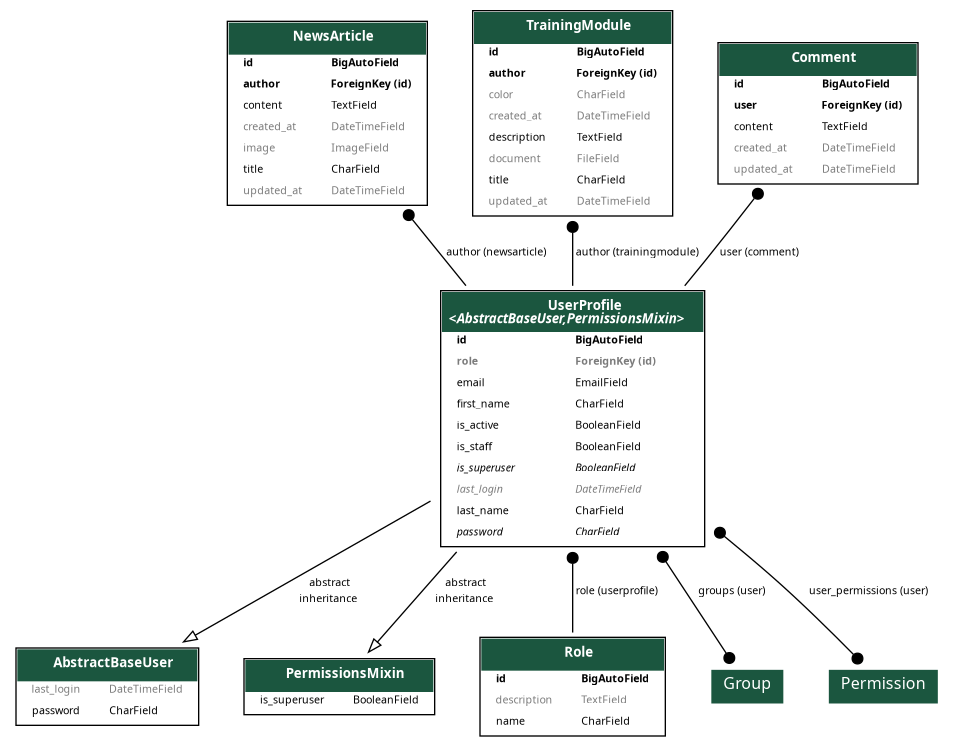
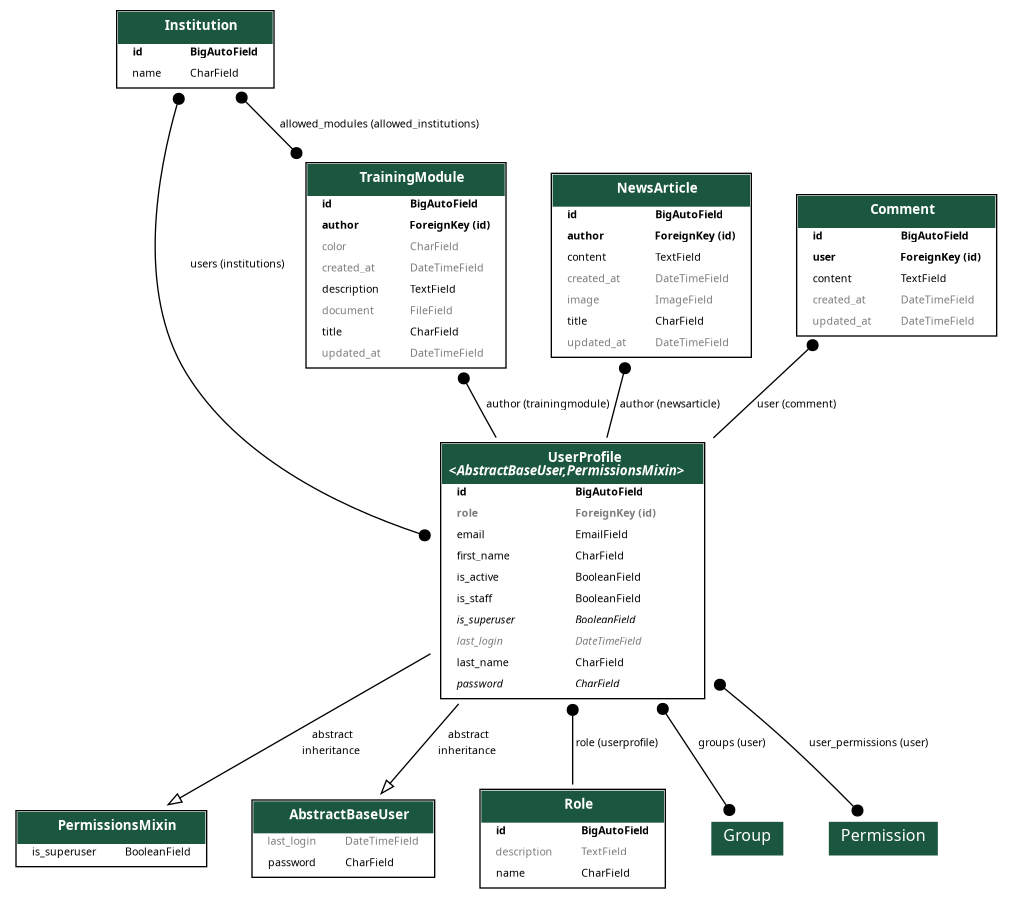
Added Institutions model

diff --git a/profiles/migrations/0002_institution.py b/profiles/migrations/0002_institution.py
@@ -1,0 +1,42 @@
+# Generated by Django 5.0.7 on 2024-08-04 20:03
+
+from django.conf import settings
+from django.db import migrations, models
+
+
+class Migration(migrations.Migration):
+
+    dependencies = [
+        ("modules", "0002_alter_trainingmodule_created_at"),
+        ("profiles", "0001_initial"),
+    ]
+
+    operations = [
+        migrations.CreateModel(
+            name="Institution",
+            fields=[
+                (
+                    "id",
+                    models.BigAutoField(
+                        auto_created=True,
+                        primary_key=True,
+                        serialize=False,
+                        verbose_name="ID",
+                    ),
+                ),
+                ("name", models.CharField(max_length=200)),
+                (
+                    "allowed_modules",
+                    models.ManyToManyField(
+                        related_name="allowed_institutions", to="modules.trainingmodule"
+                    ),
+                ),
+                (
+                    "users",
+                    models.ManyToManyField(
+                        related_name="institutions", to=settings.AUTH_USER_MODEL
+                    ),
+                ),
+            ],
+        ),
+    ]

diff --git a/profiles/views.py b/profiles/views.py
@@ -1,8 +1,8 @@
 from rest_framework import generics
 from rest_framework.authtoken.models import Token
 from rest_framework.response import Response
-from .models import UserProfile
-from .serializers import UserSerializer
+from .models import UserProfile, Institution
+from .serializers import UserSerializer, InstitutionSerializer
 
 class CreateUserView(generics.CreateAPIView):
     queryset = UserProfile.objects.all()
@@ -16,3 +16,14 @@ class CreateUserView(generics.CreateAPIView):
 class UserListView(generics.ListAPIView):
     queryset = UserProfile.objects.all()
     serializer_class = UserSerializer
+
+
+class InstitutionListView(generics.ListAPIView):
+    queryset = Institution.objects.all()
+    serializer_class = InstitutionSerializer
+
+
+class InstitutionDetailView(generics.RetrieveUpdateDestroyAPIView):
+    queryset = Institution.objects.all()
+    serializer_class = InstitutionSerializer
+

diff --git a/profiles/urls.py b/profiles/urls.py
@@ -1,9 +1,11 @@
 from django.urls import path
-from .views import CreateUserView, UserListView
+from .views import CreateUserView, UserListView, InstitutionDetailView, InstitutionListView
 from rest_framework.authtoken.views import obtain_auth_token
 
 urlpatterns = [
     path('', UserListView.as_view(), name='user-list'),
     path('register/', CreateUserView.as_view(), name='register'),
     path('login/', obtain_auth_token, name='login'),
+    path('institutions/', InstitutionListView.as_view(), name='institution-list'),
+    path('institutions/<int:pk>/', InstitutionDetailView.as_view(), name='institution-detail'),
 ]

diff --git a/profiles/serializers.py b/profiles/serializers.py
@@ -1,10 +1,14 @@
 # your_app_name/serializers.py
 
 from rest_framework import serializers
-from .models import UserProfile
+from .models import UserProfile, Institution
 
 class UserSerializer(serializers.ModelSerializer):
     class Meta:
         model = UserProfile
         fields = ['id', 'email', 'first_name', 'last_name', 'role']
 
+class InstitutionSerializer(serializers.ModelSerializer):
+    class Meta:
+        model = Institution
+        fields = ['id', 'name', 'allowed_modules', 'users']

diff --git a/profiles/admin.py b/profiles/admin.py
@@ -1,5 +1,6 @@
 from django.contrib import admin
-from .models import UserProfile, Role
+from .models import UserProfile, Role, Institution
 
+admin.site.register(Institution)
 admin.site.register(UserProfile)
 admin.site.register(Role)
